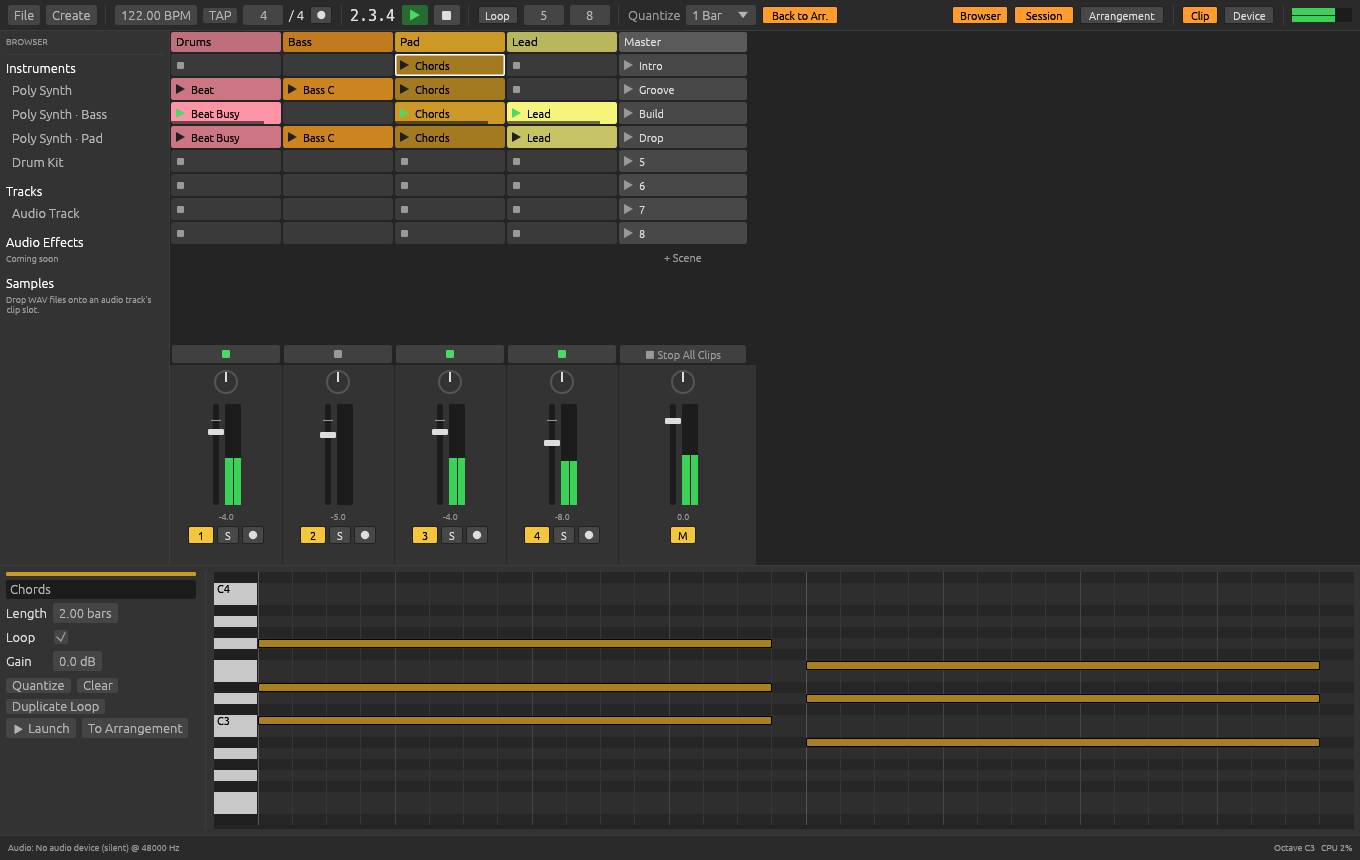
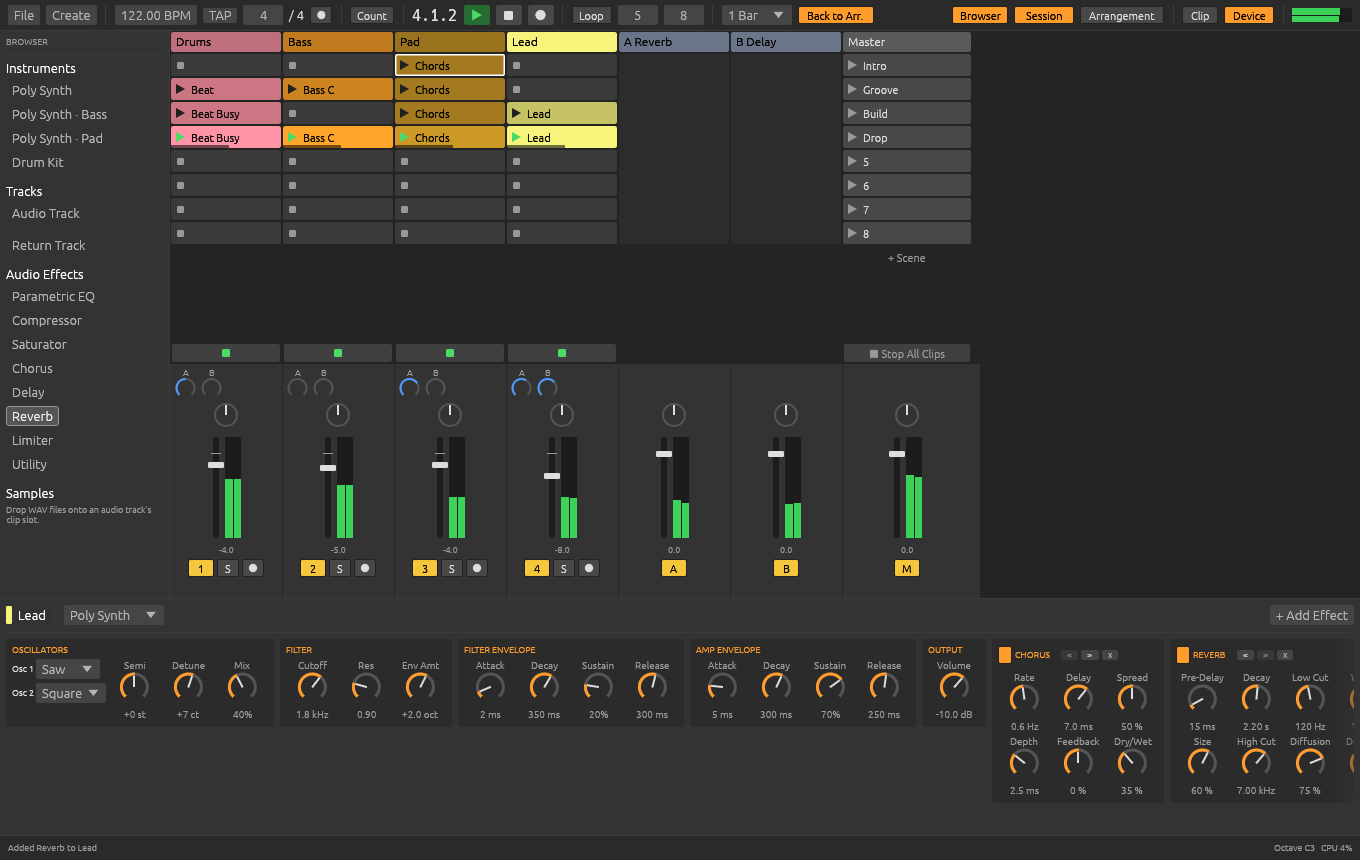
Update README and screenshot for effects, returns and recording
Claude-Session: https://claude.ai/code/session_01BT9Z1cPmcVsQ3akkWY5gQZ

diff --git a/crates/app/src/ui/transport.rs b/crates/app/src/ui/transport.rs
@@ -97,25 +97,24 @@ pub fn draw(app: &mut TesseraApp, ui: &mut egui::Ui) {
         }
         ui.separator();
 
-        // Count-in before Arrangement recording.
-        let mut count_in = app.project.count_in_bars;
-        egui::ComboBox::from_id_salt("count_in")
-            .width(64.0)
-            .selected_text(match count_in {
-                0 => "No count".to_string(),
-                1 => "1 Bar".to_string(),
-                n => format!("{n} Bars"),
-            })
-            .show_ui(ui, |ui| {
-                for (n, l) in [(0, "None"), (1, "1 Bar"), (2, "2 Bars"), (4, "4 Bars")] {
-                    ui.selectable_value(&mut count_in, n, l);
-                }
-            })
-            .response
-            .on_hover_text("Count-in before recording");
-        if count_in != app.project.count_in_bars {
-            app.project.count_in_bars = count_in;
-            app.send(Command::SetCountIn(count_in));
+        // Count-in before Arrangement recording: click to cycle.
+        let count_in = app.project.count_in_bars;
+        let label = match count_in {
+            0 => "Count".to_string(),
+            n => format!("{n} Bar"),
+        };
+        if widgets::toggle(ui, count_in > 0, &label, theme::ACCENT, 44.0)
+            .on_hover_text("Count-in before recording: none, 1, 2 or 4 bars (click to change)")
+            .clicked()
+        {
+            let next = match count_in {
+                0 => 1,
+                1 => 2,
+                2 => 4,
+                _ => 0,
+            };
+            app.project.count_in_bars = next;
+            app.send(Command::SetCountIn(next));
             app.dirty = true;
         }
         ui.separator();
@@ -228,7 +227,6 @@ pub fn draw(app: &mut TesseraApp, ui: &mut egui::Ui) {
         }
 
         ui.separator();
-        ui.label(RichText::new("Quantize").color(theme::TEXT_DIM));
         let mut q = app.project.launch_quantization;
         egui::ComboBox::from_id_salt("quant")
             .selected_text(q.label())
@@ -237,7 +235,9 @@ pub fn draw(app: &mut TesseraApp, ui: &mut egui::Ui) {
                 for opt in Quantization::ALL {
                     ui.selectable_value(&mut q, opt, opt.label());
                 }
-            });
+            })
+            .response
+            .on_hover_text("Launch quantization");
         if q != app.project.launch_quantization {
             app.project.launch_quantization = q;
             app.send(Command::SetQuantization(q));

diff --git a/crates/app/src/ui/devices.rs b/crates/app/src/ui/devices.rs
@@ -213,6 +213,7 @@ fn param_control(ui: &mut egui::Ui, salt: (Id, usize), info: &ParamInfo, value: 
         ParamKind::Toggle => {
             let mut out = None;
             ui.allocate_ui_with_layout(vec2(52.0, 62.0), egui::Layout::top_down(egui::Align::Center), |ui| {
+                ui.set_min_size(vec2(52.0, 62.0));
                 ui.add_space(4.0);
                 ui.label(egui::RichText::new(info.name).size(10.0).color(theme::TEXT_DIM));
                 ui.add_space(6.0);
@@ -226,6 +227,7 @@ fn param_control(ui: &mut egui::Ui, salt: (Id, usize), info: &ParamInfo, value: 
         ParamKind::Choice(labels) => {
             let mut out = None;
             ui.allocate_ui_with_layout(vec2(76.0, 62.0), egui::Layout::top_down(egui::Align::Center), |ui| {
+                ui.set_min_size(vec2(76.0, 62.0));
                 ui.add_space(4.0);
                 ui.label(egui::RichText::new(info.name).size(10.0).color(theme::TEXT_DIM));
                 ui.add_space(4.0);

diff --git a/README.md b/README.md
@@ -2,17 +2,19 @@
 
 Tessera is an original, from-scratch digital audio workstation modelled on the
 workflow of Ableton Live Suite: a Session view of launchable clips and scenes,
-an Arrangement timeline, a mixer, built-in instruments and (on the roadmap)
-effects, warping, automation and a browser. All code in this repository is
+an Arrangement timeline, a mixer with return tracks, built-in instruments and
+audio effects, audio recording and (on the roadmap) warping, automation and a
+browser. All code in this repository is
 original.
 
 ![Session view](docs/session-view.png)
 
 ![Arrangement view](docs/arrangement-view.png)
 
-> Status: **foundation**. The audio engine, transport, mixer, two built-in
-> instruments, Session view and Arrangement view work. See the
-> [roadmap](#roadmap) for what comes next.
+> Status: **early**. The audio engine, transport, mixer with sends and
+> returns, two built-in instruments, eight audio effects, audio recording,
+> Session view and Arrangement view work. See the [roadmap](#roadmap) for what
+> comes next.
 
 ## Features today
 
@@ -26,7 +28,27 @@ original.
 - **Arrangement view**: bar ruler, clips on a timeline, click to set the
   playhead, loop brace, drag clips to move them (snapped to the grid), zoom.
 - **Mixer**: volume, pan (constant-power), mute, solo, arm, peak meters per
-  track and on the master.
+  track and on the master. **Return tracks** with post-fader **sends** (new
+  projects start with *A Reverb* and *B Delay*).
+- **Device chains**: every track, return track and the master has a chain of
+  insert effects shown in the Device view after the instrument. Devices can
+  be switched off, reordered, reset and deleted; parameter changes apply
+  instantly and reverb/delay tails survive edits.
+- **Audio effects**: *Parametric EQ* (8 bands: 12/48 dB cuts, shelves, bells,
+  notch, with an interactive response curve), *Compressor* (soft knee,
+  makeup, dry/wet, gain reduction meter), *Saturator* (soft clip, hard clip,
+  tube, fold), *Chorus*, *Delay* (tempo sync, ping-pong, filtered feedback),
+  *Reverb* (feedback delay network with pre-delay, decay, damping, width),
+  *Limiter* (look-ahead brickwall, on the master by default) and *Utility*
+  (gain, width, mono, phase).
+- **Audio recording**: arm an audio track to monitor its input (Auto / In /
+  Off, input 1/2, 1 or 2). Click the record button in an empty Session slot
+  to record into it from the next launch boundary; launch the slot to stop
+  and loop the new clip. *Arrangement Record* (F9) records armed tracks into
+  the Arrangement from the playhead, with an optional count-in of 1, 2 or 4
+  bars, punch in/out and a new take on every loop pass. Input latency is
+  compensated; takes are saved as 32-bit float WAVs and collected into
+  `Samples/Recorded` next to the project when it is saved.
 - **Instruments**: *Poly Synth* (2 oscillators, resonant filter with envelope,
   amp envelope, 16 voices) and *Drum Kit* (synthesized kick, snare, clap, hats,
   toms, rim, crash on General MIDI notes).
@@ -80,6 +102,7 @@ cargo test --workspace
 | Key | Action |
 | --- | --- |
 | Space | Play / Stop |
+| F9 | Arrangement Record |
 | Shift + Space | Continue from the stop position |
 | Tab | Switch between Session and Arrangement view |
 | Shift + Tab | Switch the detail panel between Clip and Device |
@@ -101,8 +124,14 @@ cargo test --workspace
   to move them (hold Alt to bypass the grid), drag a clip's right edge to
   resize it, double-click an empty MIDI lane to create a clip, and drag or
   double-click the loop brace above the ruler. Ctrl/Cmd + mouse wheel zooms.
-- The browser on the left creates tracks from the built-in instruments; the
-  *Device* view (Shift + Tab) shows the selected track's instrument controls.
+- The browser on the left creates tracks from the built-in instruments and
+  adds audio effects to the selected track. The *Device* view (Shift + Tab)
+  shows the selected track's instrument and effects; click a return track's
+  or the master's header to see theirs. In the EQ, drag a numbered point to
+  move a band, scroll over it to change its Q and double-click to switch it
+  on or off.
+- Send knobs (A, B, …) sit above each track's pan knob. Right-click the
+  master or a return header to add or delete return tracks.
 
 ## Architecture
 
@@ -111,12 +140,17 @@ crates/
   engine/   tessera-engine: project model, real-time engine, DSP, offline render
     src/model.rs      serialisable project (tracks, clips, scenes, mixer)
     src/engine.rs     audio thread: transport, session/arrangement playback, mixer
+    src/engine/buses.rs   return tracks and sends
+    src/engine/record.rs  audio input, monitoring, recording takes, count-in
     src/dsp/          Poly Synth, Drum Kit, ADSR, state-variable filter
+    src/fx/           audio effects and device chains (FxChain)
     src/render.rs     offline export
     src/demo.rs       built-in demo song
   app/      tessera: desktop application (egui + cpal)
-    src/audio.rs      audio device output (cpal) and null fallback device
+    src/audio.rs      audio device input/output (cpal) and null fallback device
     src/app.rs        application state, commands, keyboard shortcuts
+    src/devices.rs    editing device chains, sends and return tracks
+    src/recording.rs  turns recorded input into clips and WAV files
     src/ui/           transport bar, Session view, Arrangement view, mixer,
                       detail view (piano roll, devices), widgets
 ```
@@ -139,6 +173,20 @@ state from the old snapshot into the new one and hands the old one back to the
 UI to free. Small, frequent edits (faders, launches, transport) are individual
 commands. The engine publishes playhead, meters and clip states through atomics.
 
+**Effects.** Each effect's settings are a plain `Copy` struct of `f32`
+parameters described by a static table (name, range, scale, unit), so the
+Device view draws generic controls and single parameters can be set by index
+(the hook automation will use). DSP state (delay lines, envelopes) is
+allocated on the UI thread when a snapshot is compiled and moved from the old
+snapshot to the new one by device id.
+
+**Recording.** The input device writes into a lock-free ring the engine reads
+each block. While anything records, the engine streams the raw input to the
+UI through a second ring together with sample-accurate start/stop events, so
+the audio thread never grows a buffer. The UI cuts the takes out of that
+stream, drops the measured input + output latency from the front, writes the
+WAV files and adds the clips.
+
 **Time.** All positions are stored in beats so projects survive tempo changes.
 Session clips follow a monotonic session clock (so they keep playing straight
 through arrangement loop jumps); the arrangement follows the song position.
@@ -148,13 +196,14 @@ Events are scheduled sample-accurately inside each audio block.
 
 Planned follow-up work, roughly in order:
 
-1. **Recording**: MIDI input (midir), audio input recording, overdub, session
-   record into empty slots, capture MIDI, record Session performance into the
+1. **Recording** (audio recording, count-in and Session slot recording are
+   done): MIDI input (midir), MIDI overdub, capture MIDI, input device
+   selection, take lanes and comping, record Session performance into the
    Arrangement.
-2. **Effects and device chains**: per-track device chain with EQ Eight-style
-   parametric EQ, compressor, glue-style bus compressor, reverb, delay, chorus,
-   saturator, auto filter, utility, limiter; return tracks with sends; racks
-   with macros.
+2. **Effects and device chains** (EQ, compressor, reverb, delay, chorus,
+   saturator, limiter, utility, returns and sends are done): glue-style bus
+   compressor, auto filter, gate, sidechain inputs, pre-fader sends, drag and
+   drop reordering, racks with macros, plugin delay compensation.
 3. **Automation**: arrangement automation lanes, session clip envelopes,
    breakpoint editing, parameter modulation.
 4. **Warping and audio editing**: time-stretching (beats/tones/complex style
